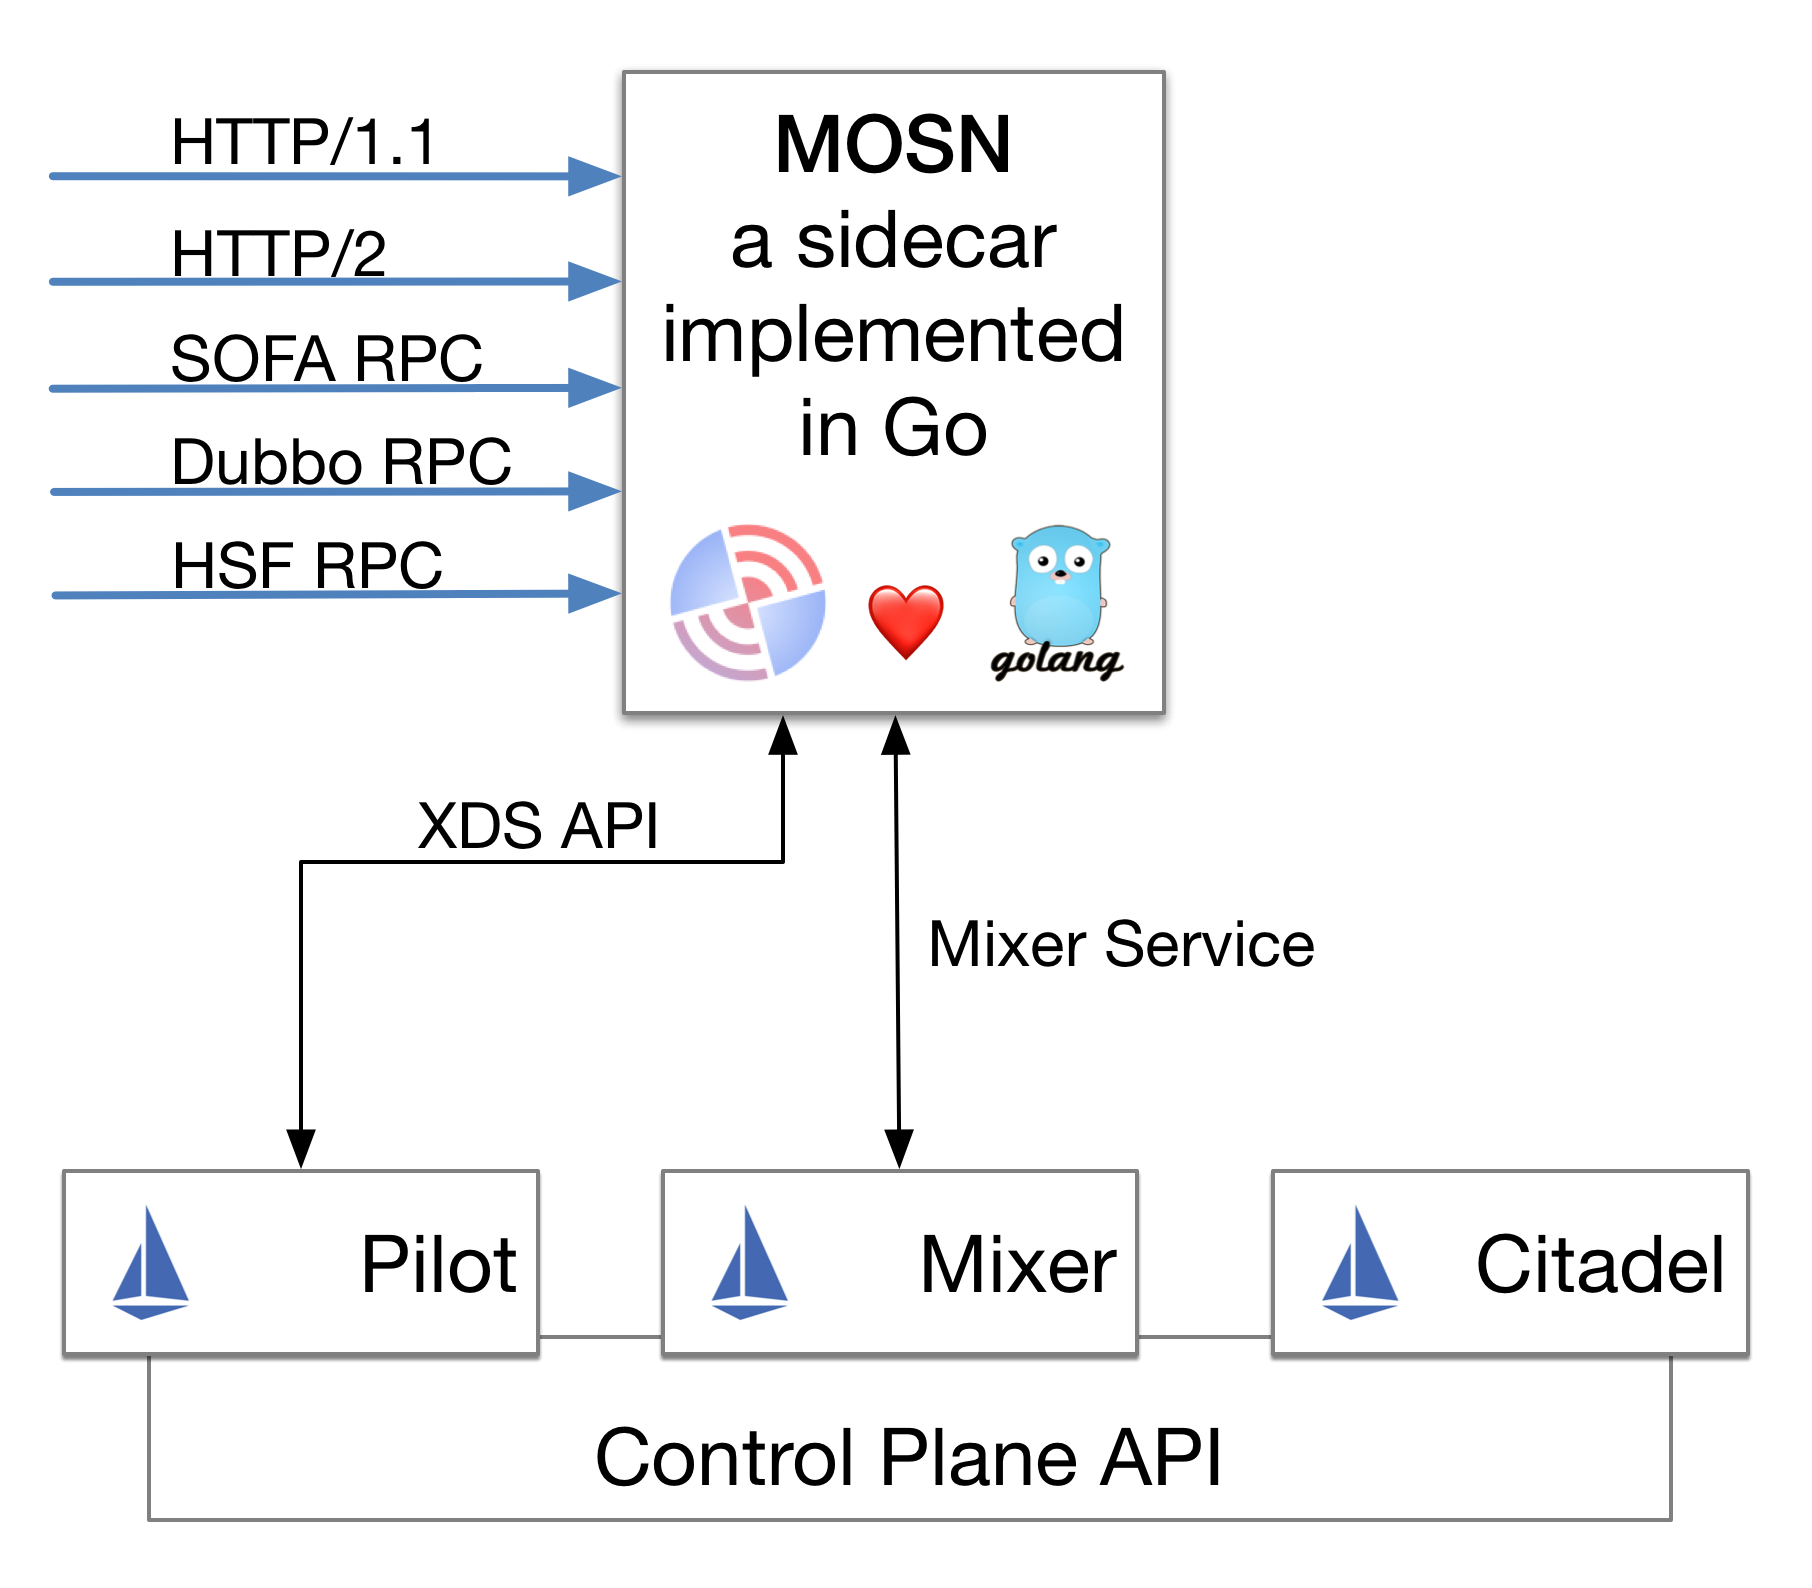
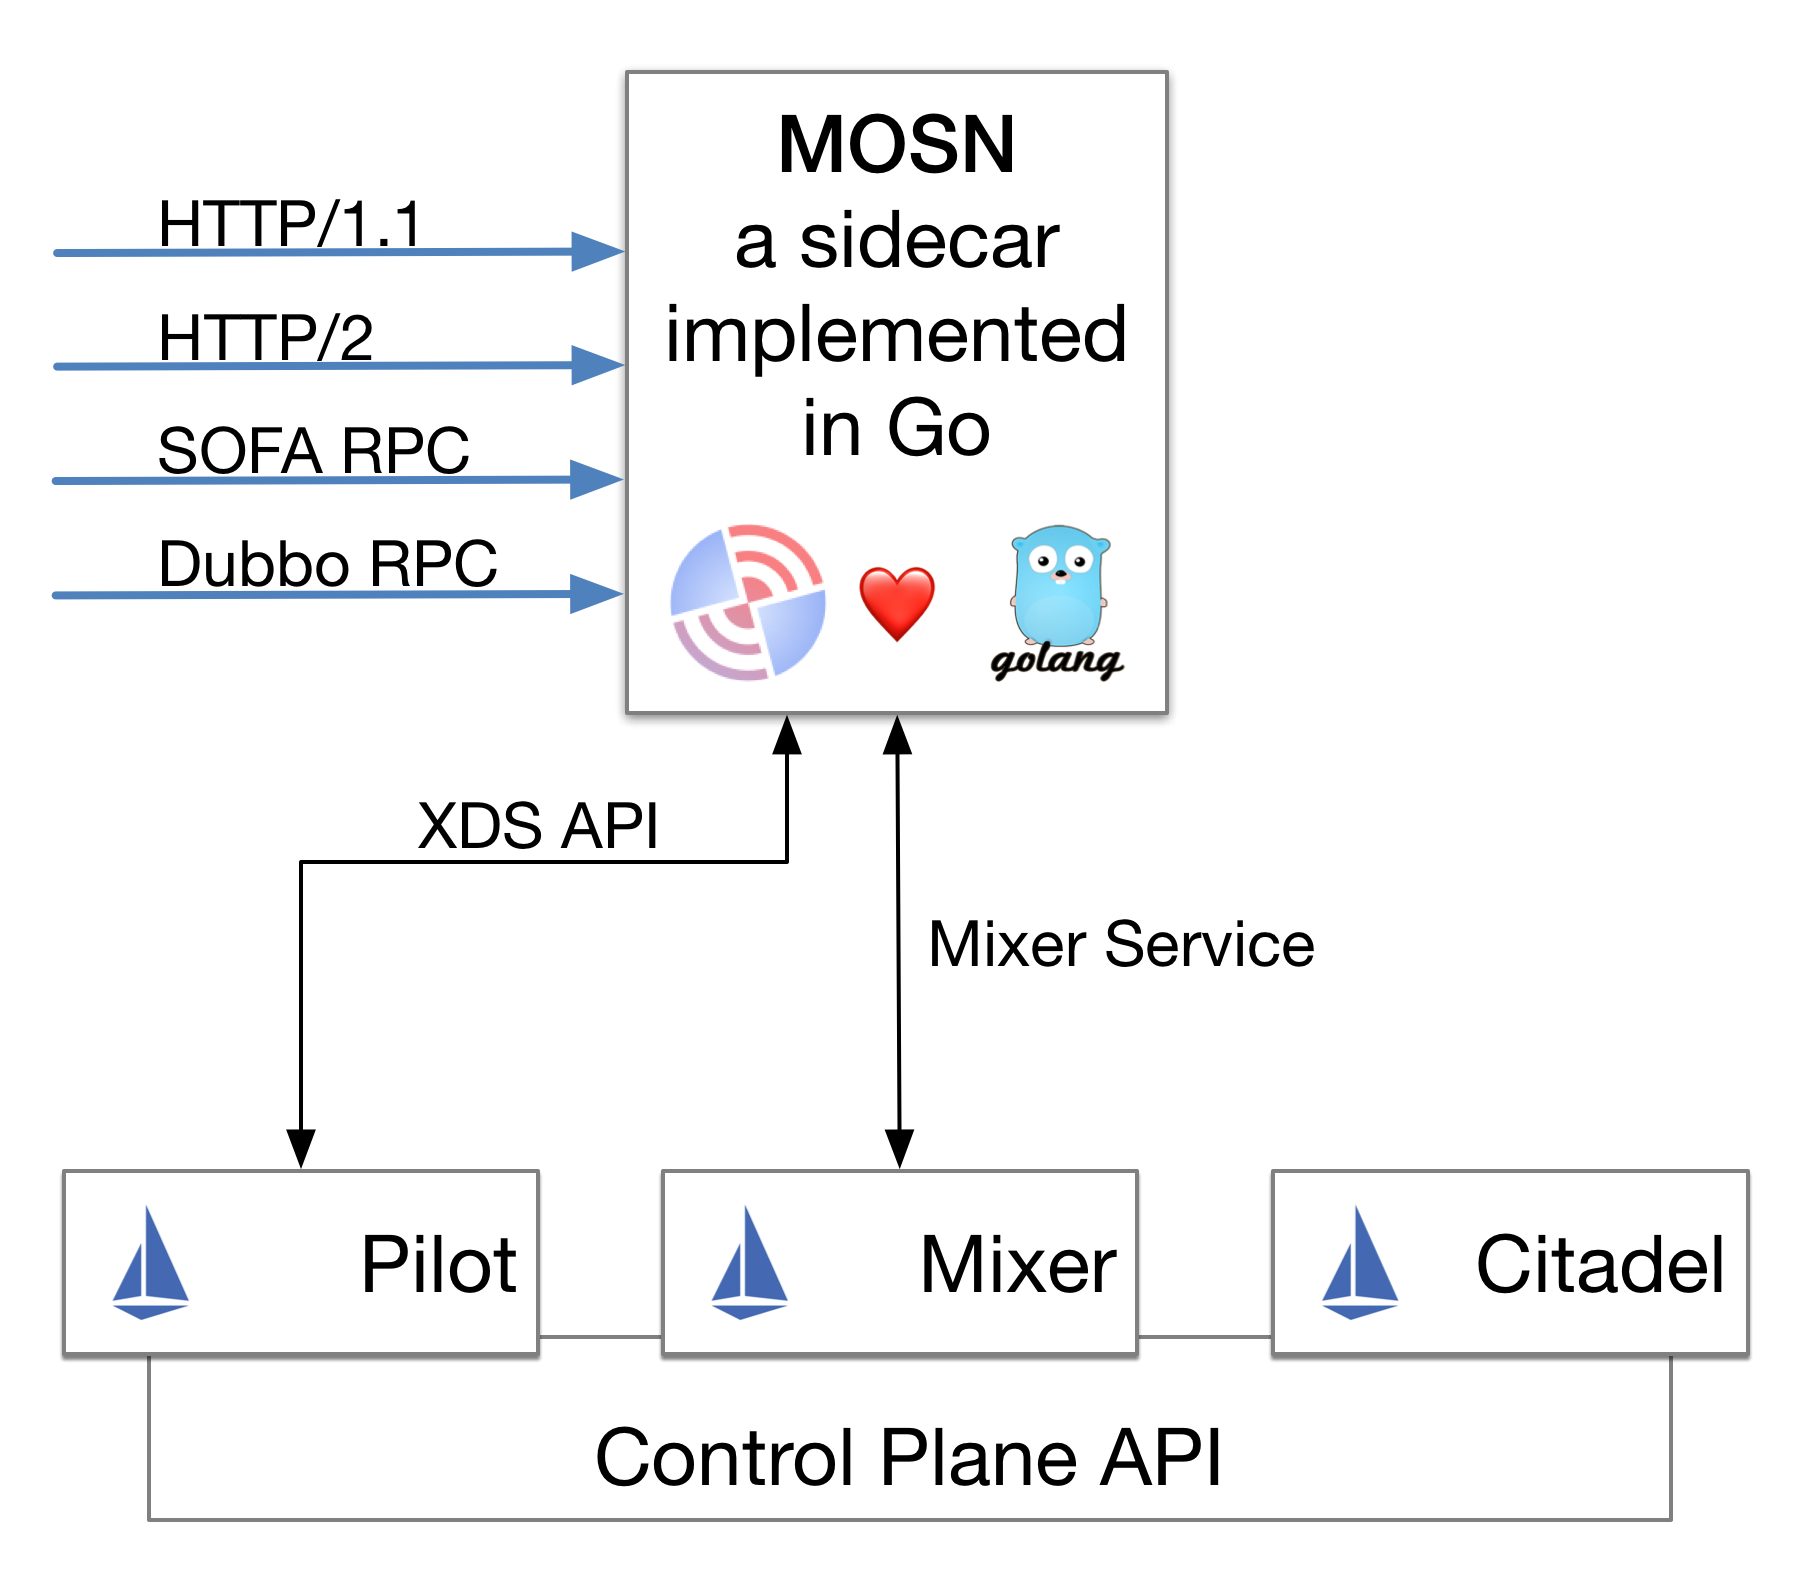
replace with new picture

Changed region(s): [[0.0309, 0.0617, 0.649, 0.4628], [0.4636, 0.3394, 0.5254, 0.432]]

diff --git a/sofa-mesh/zh_CN/Home.md b/sofa-mesh/zh_CN/Home.md
@@ -1,35 +1,35 @@
-## SOFA Mesh介绍
+## SOFAMesh介绍
 
 ## 概述
 
-SOFA Mesh是基于Istio改进和扩展而来的Service Mesh大规模落地实践方案。在继承Istio强大功能和丰富特性的基础上，为满足大规模部署下的性能要求以及应对落地实践中的实际情况，有如下改进：
+SOFAMesh是基于Istio改进和扩展而来的Service Mesh大规模落地实践方案。在继承Istio强大功能和丰富特性的基础上，为满足大规模部署下的性能要求以及应对落地实践中的实际情况，有如下改进：
 
 1. 采用Golang编写的MOSN取代Envoy
 2. 合并Mixer到数据平面以解决性能瓶颈
 3. 增强Pilot以实现更灵活的服务发现机制
-4. 增加对SOFARPC、Dubbo、HSF等的支持
+4. 增加对SOFARPC、Dubbo的支持
 
-下图展示了Sofa Mesh和Istio在架构上的不同：
+下图展示了SOFA Mesh和Istio在架构上的不同：
 
-![](resources/sofa-mesh-architecture.png)
+![](resources/sofa-mesh-arch.png)
 
 ## 主要组件
 
 ### SOFA MOSN
 
-SOFA Mesh中，我们采用Golang语言编写了名为MOSN(Modular Observable Smart Netstub)的模块，实现了Envoy的功能，完全兼容Envoy的API，在数据平面中承担Sidecar功能以替代Envoy实现和Istio集成。
+SOFAMesh中，我们采用Golang语言编写了名为MOSN(Modular Observable Smart Netstub)的模块，实现了Envoy的功能，完全兼容Envoy的API，在数据平面中承担Sidecar功能以替代Envoy实现和Istio集成。
 
-![](resources/mosn.jpg)
+![](resources/mosn-sofa-mesh-golang-sidecar.png)
 
 ### SOFA Pilot
 
-SOFA Mesh中大幅扩展和增强Istio中的Pilot模块：
+SOFAMesh中大幅扩展和增强Istio中的Pilot模块：
 
-![](resources/pilot.jpg)
+![](resources/sofa-mesh-pilot.png)
 
-1. 增加Sofa Registry的Adapter，提供超大规模服务注册和发现的解决方案
+1. 增加SOFA Registry的Adapter，提供超大规模服务注册和发现的解决方案
 2. 增加数据同步模块，以实现多个服务注册中心之间的数据交换
 3. 增加Open Service Registry API，提供标准化的服务注册功能
 
-MOSN和Pilot配合，将可以提供让传统侵入式框架（如Spring Cloud，Dubbo，HSF, Sofa RPC等）和Service Mesh产品可以相互通讯的功能，以便可以平滑的向Service Mesh产品演进和过渡。
+MOSN和Pilot配合，将可以提供让传统侵入式框架（如Spring Cloud，Dubbo，SOFA RPC等）和Service Mesh产品可以相互通讯的功能，以便可以平滑的向Service Mesh产品演进和过渡。
 
